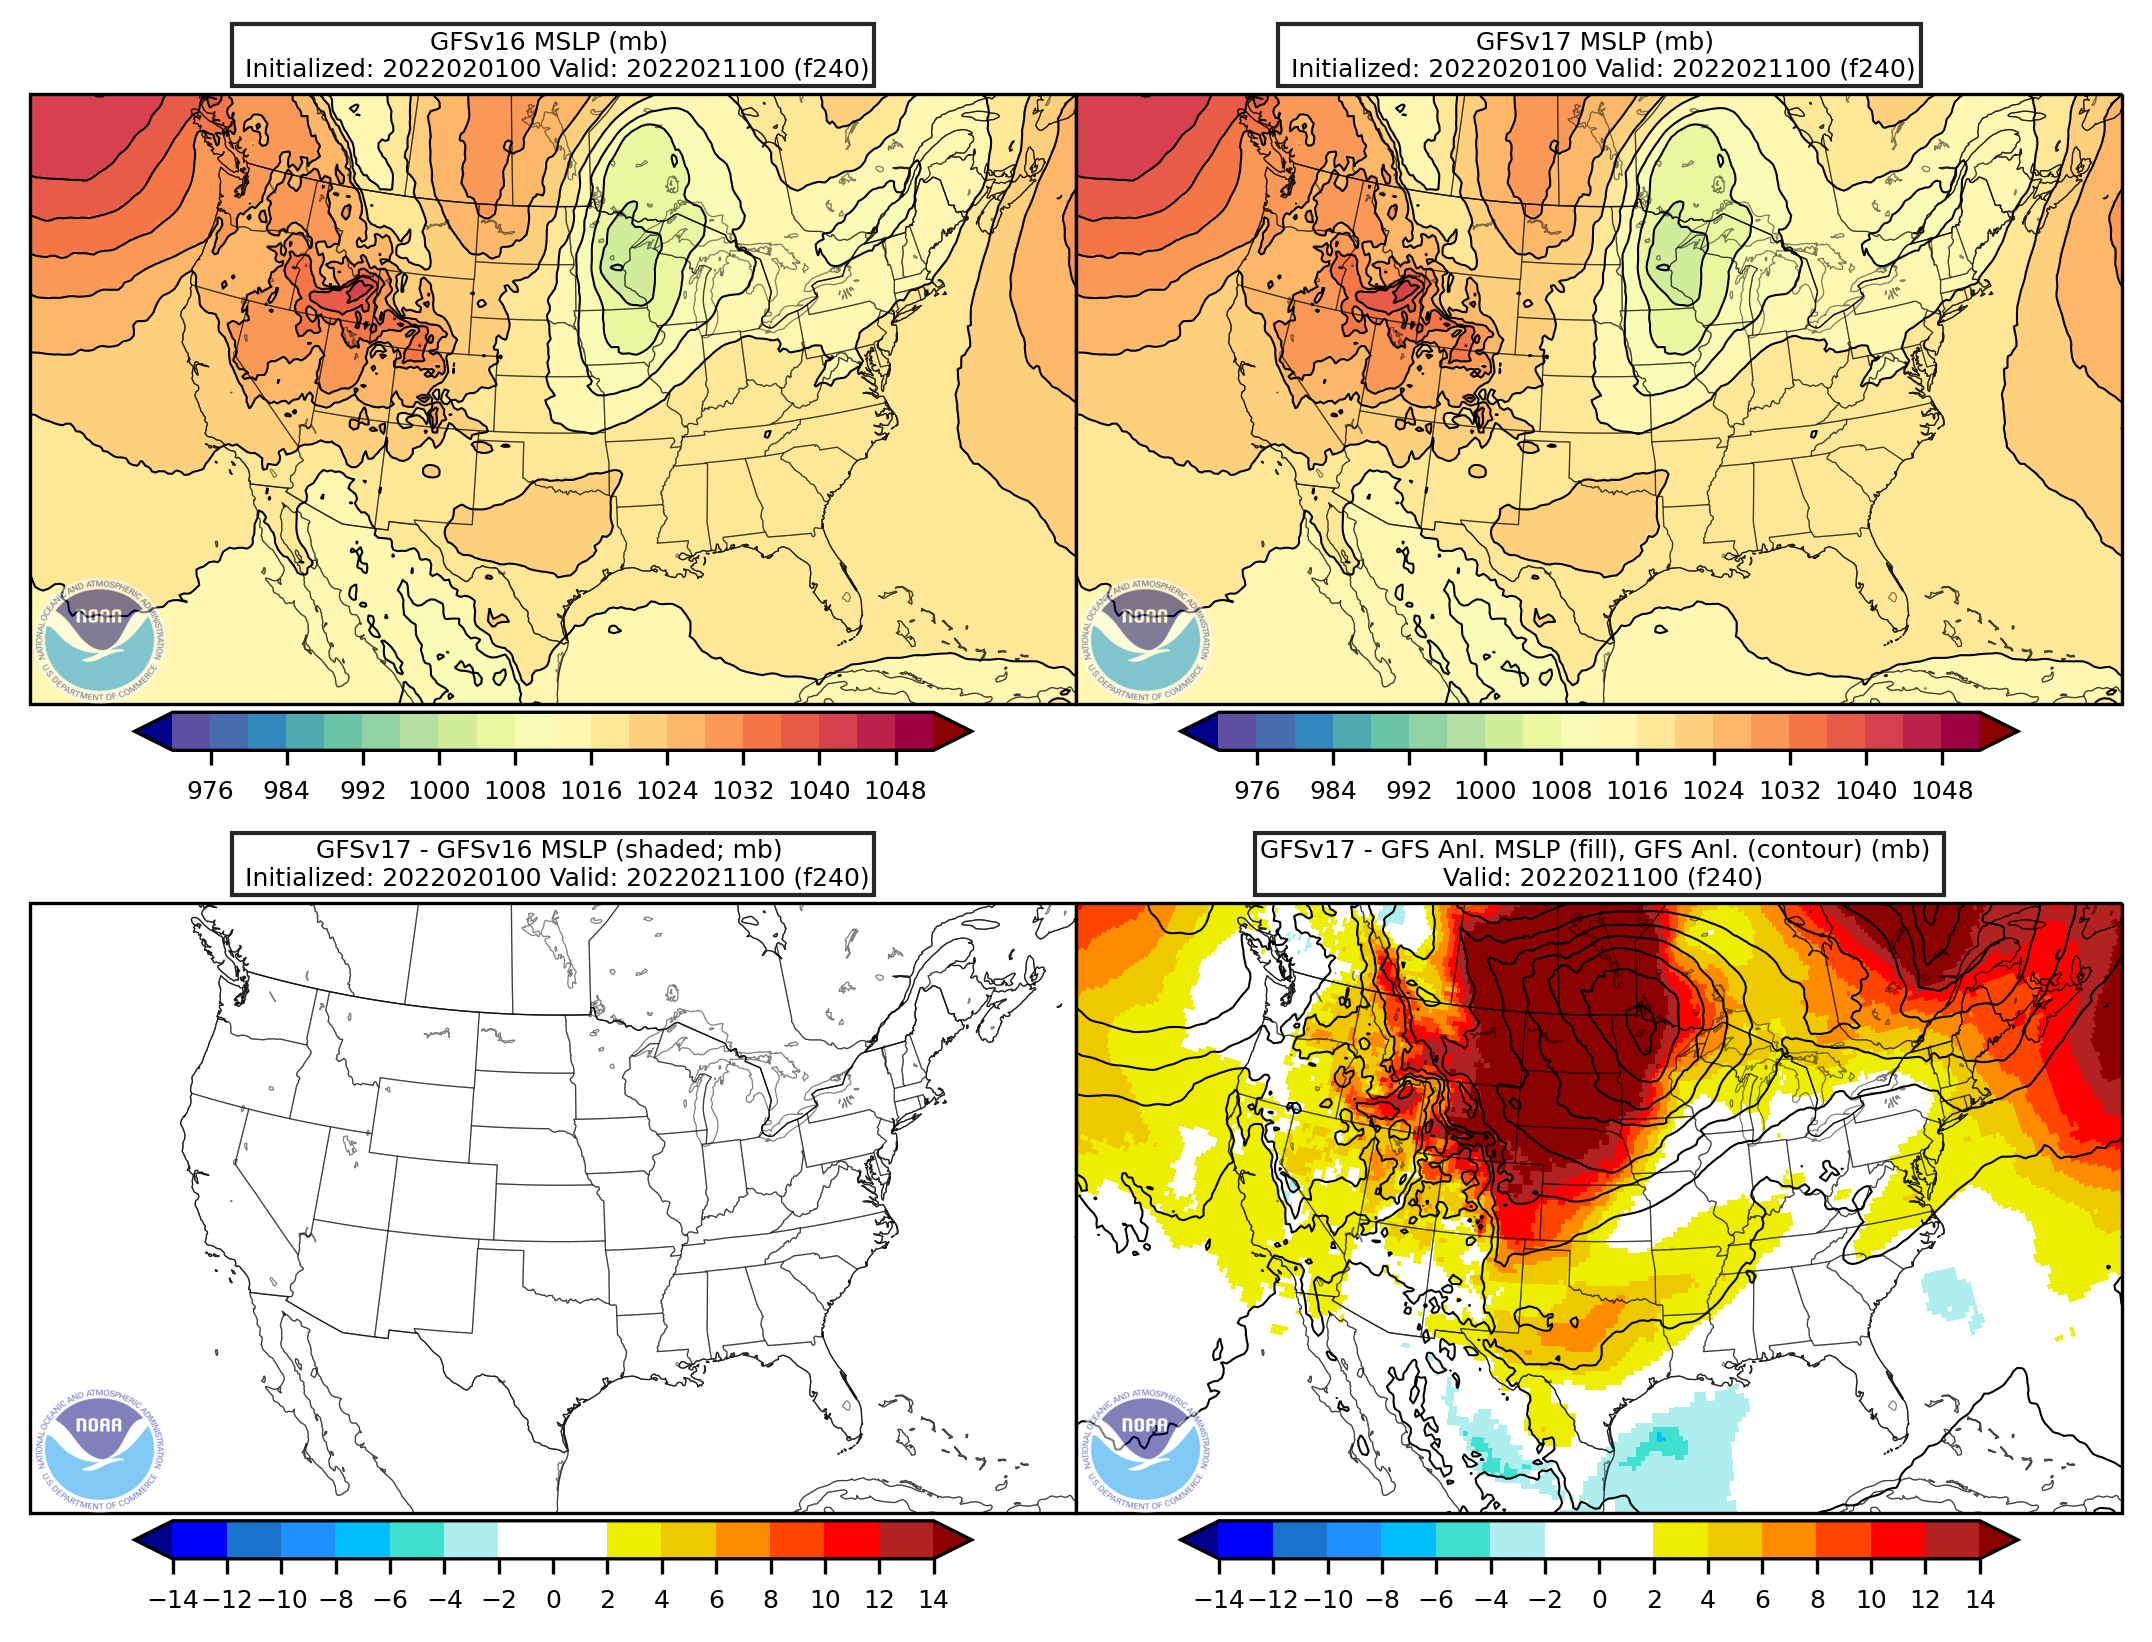
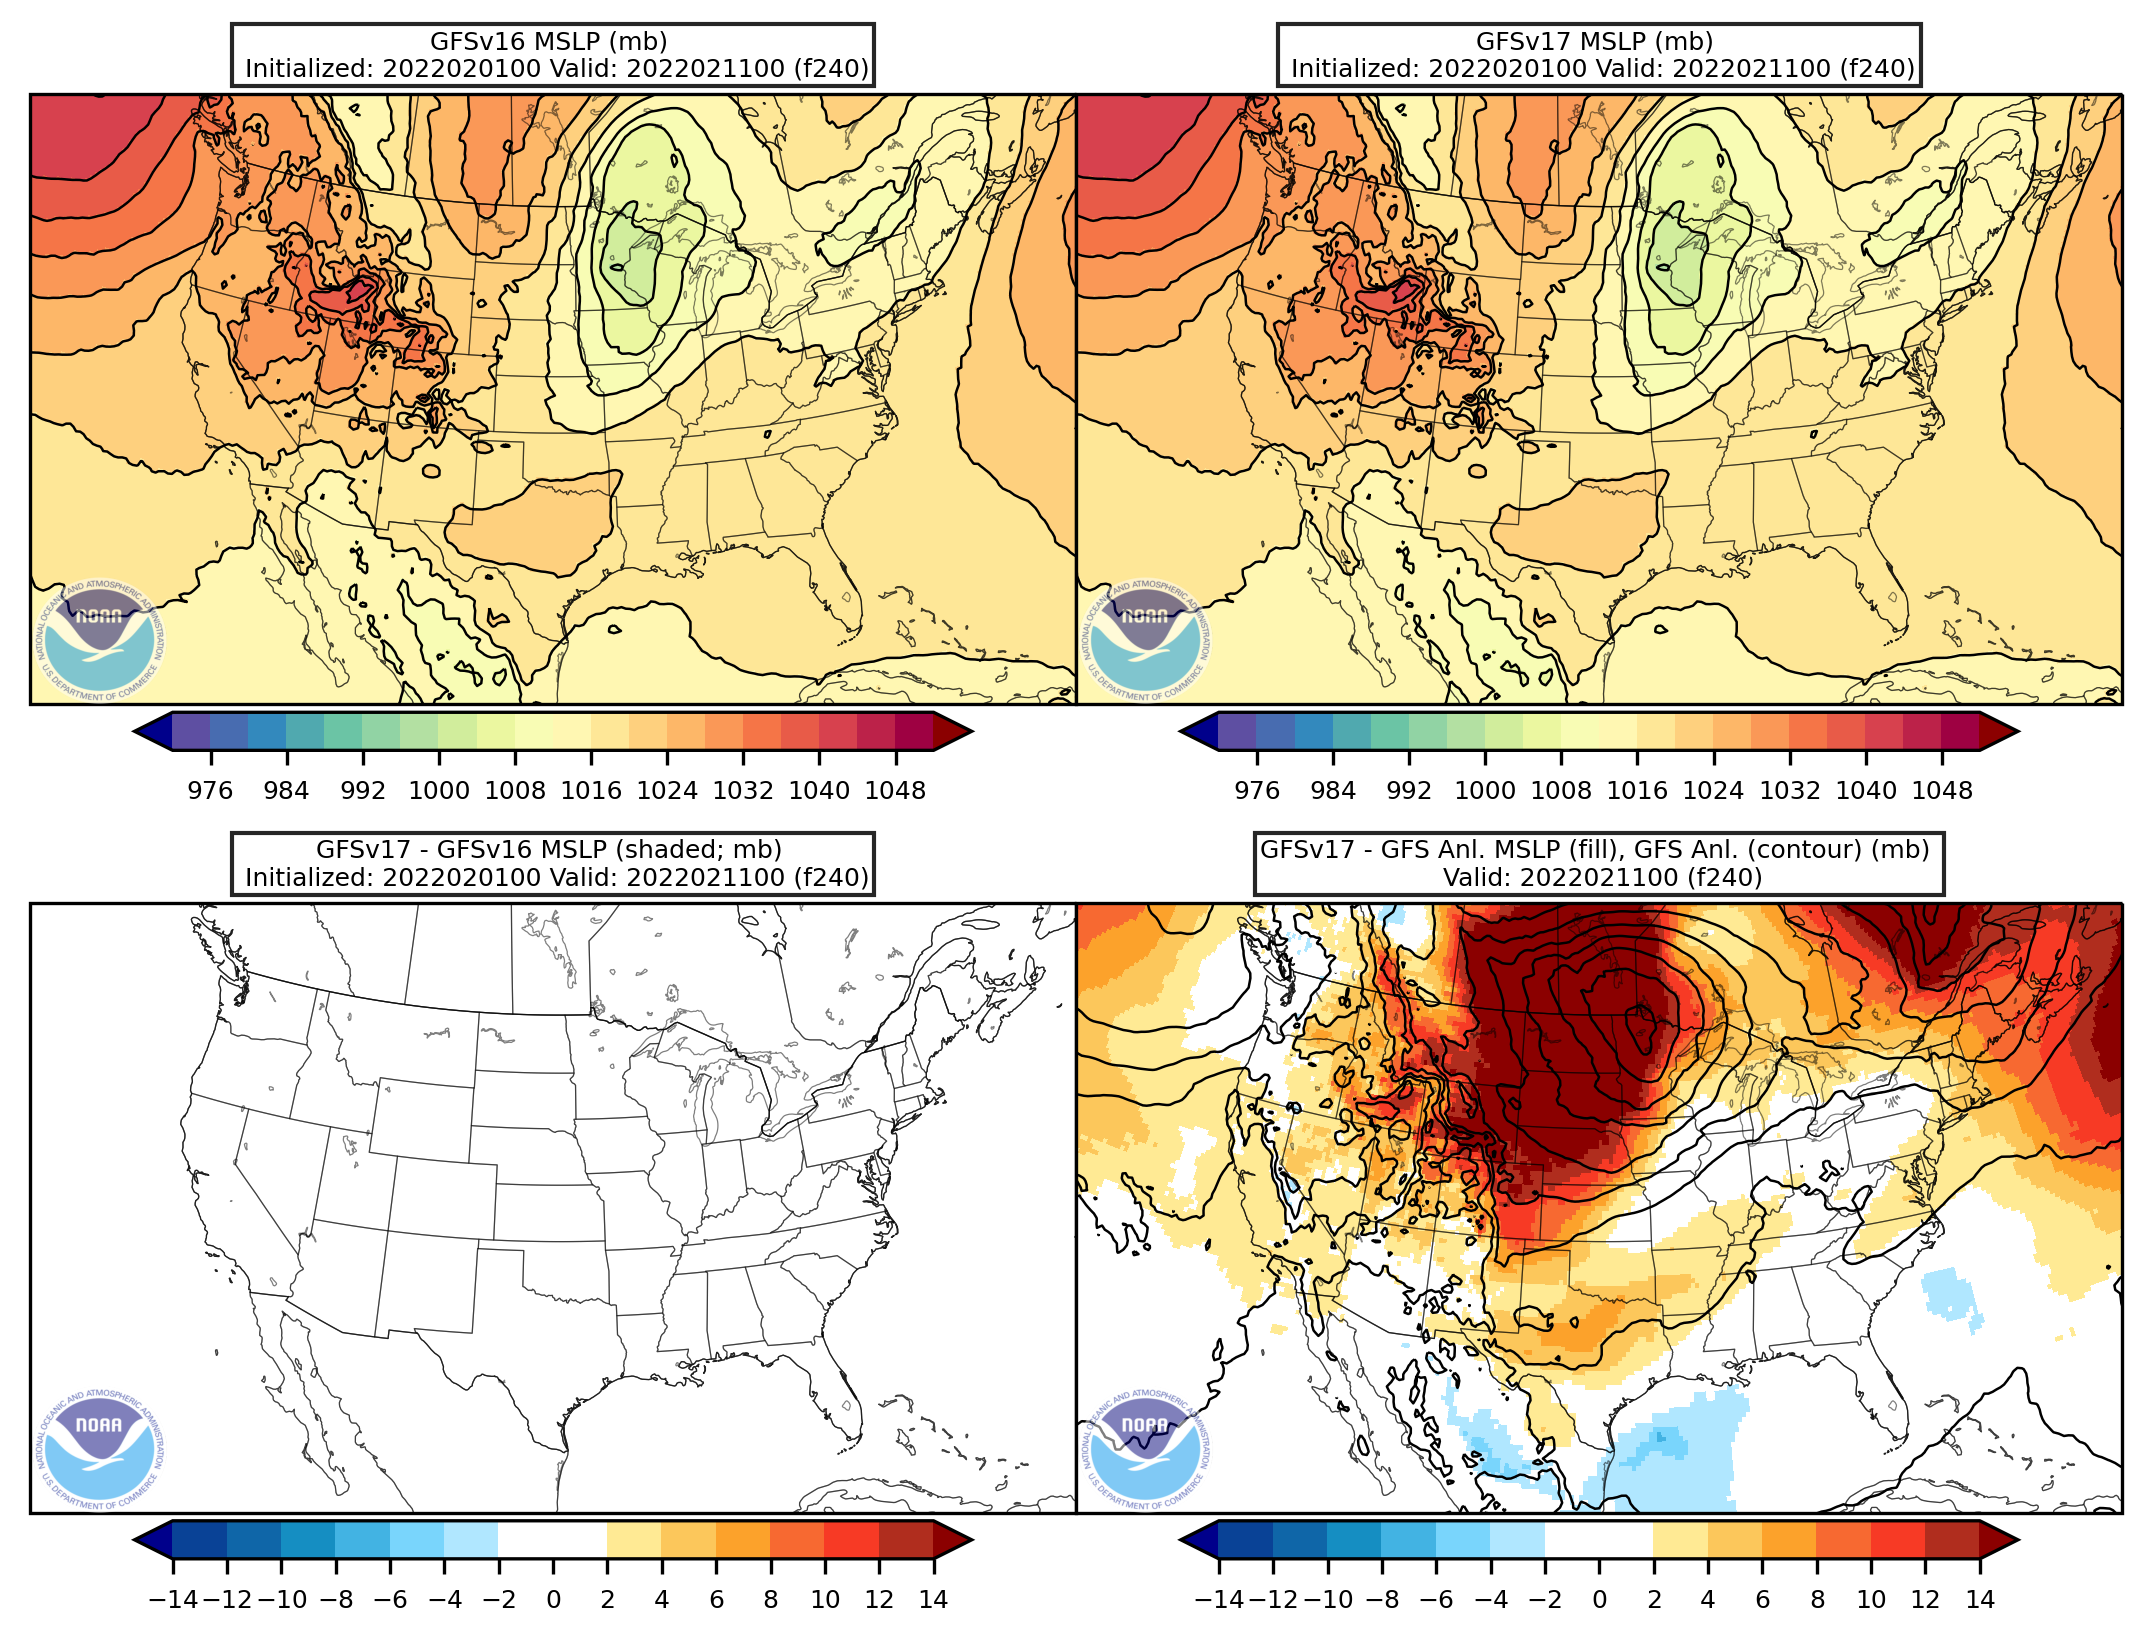
Updated SLP plotting script to optimize layout of 4-panel plots

diff --git a/plot_maps/plot_gfs_slp_4panel.py b/plot_maps/plot_gfs_slp_4panel.py
@@ -270,7 +270,7 @@ print(("%.3f seconds to read all messages") % t3a)
 
 # colors for difference plots, only need to define once
 #difcolors = ['blue','#1874CD','dodgerblue','deepskyblue','turquoise','paleturquoise','white','white','#EEEE00','#EEC900','darkorange','orangered','red','firebrick']
-difcolors = ['blue','#1874CD','dodgerblue','deepskyblue','turquoise','paleturquoise','white','white','#EEEE00','#EEC900','darkorange','orangered','red','firebrick']
+difcolors = ['#094296','#0f66a8','#158ec2','#42b3e3','#79d5fc','#b0e7ff','white','white','#ffea94','#fcc75b','#fca22b','#f76931','#f73a25','#b02d1e']
 difcolors2 = ['white']
 difcolors3 = ['blue','dodgerblue','turquoise','white','white','#EEEE00','darkorange','red']
 
@@ -343,6 +343,17 @@ def create_figure():
     ax2 = fig.add_subplot(gs[0:9,9:], projection=myproj)
     ax3 = fig.add_subplot(gs[9:,0:9], projection=myproj)
     ax4 = fig.add_subplot(gs[9:,9:], projection=myproj)
+  elif dom == 'northeast':
+    fig = plt.figure(figsize=(8,8))
+    gs = GridSpec(19,18,wspace=0.0,hspace=0.0)
+    extent = [llcrnrlon,urcrnrlon,llcrnrlat,urcrnrlat]
+    myproj=ccrs.LambertConformal(central_longitude=cen_lon, central_latitude=cen_lat,
+            false_easting=0.0,false_northing=0.0, secant_latitudes=None,
+            standard_parallels=None,globe=None)
+    ax1 = fig.add_subplot(gs[0:9,0:9], projection=myproj)
+    ax2 = fig.add_subplot(gs[0:9,9:], projection=myproj)
+    ax3 = fig.add_subplot(gs[10:,0:9], projection=myproj)
+    ax4 = fig.add_subplot(gs[10:,9:], projection=myproj)
   else:
     fig = plt.figure(figsize=(9,8))
     gs = GridSpec(19,18,wspace=0.0,hspace=0.0)
@@ -448,10 +459,13 @@ def plot_set_1():
   # Wind barb density settings
   if dom == 'conus':
     skip = 100
+    thick = 0.6
   elif dom == 'northeast':
     skip = 40
+    thick = 0.8
   else:
     skip = 30
+    thick = 0.8
   barblength = 3.5
 
   units = 'mb'
@@ -475,7 +489,7 @@ def plot_set_1():
   cs_1 = ax1.pcolormesh(lon_shift,lat_shift,slp_1,vmin=5,norm=norm,transform=transform,cmap=cm1)
   cs_1.cmap.set_under('darkblue')
   cs_1.cmap.set_over('darkred')
-  cs_1b = ax1.contour(lon_shift,lat_shift,slp_1,np.arange(940,1060,4),colors='black',linewidths=0.5,transform=transform)
+  cs_1b = ax1.contour(lon_shift,lat_shift,slp_1,np.arange(940,1060,4),colors='black',linewidths=thick,transform=transform)
   cbar1 = plt.colorbar(cs_1,ax=ax1,orientation='horizontal',pad=0.01,ticks=clevs_thin,shrink=0.8,extend='both')
 #  cbar1.set_label(units,fontsize=6)
   cbar1.ax.tick_params(labelsize=6)
@@ -485,7 +499,7 @@ def plot_set_1():
   cs_2 = ax2.pcolormesh(lon_shift,lat_shift,slp_2,vmin=5,norm=norm,transform=transform,cmap=cm2)
   cs_2.cmap.set_under('darkblue')
   cs_2.cmap.set_over('darkred')
-  cs_2b = ax2.contour(lon_shift,lat_shift,slp_2,np.arange(940,1060,4),colors='black',linewidths=0.5,transform=transform)
+  cs_2b = ax2.contour(lon_shift,lat_shift,slp_2,np.arange(940,1060,4),colors='black',linewidths=thick,transform=transform)
   cbar2 = plt.colorbar(cs_2,ax=ax2,orientation='horizontal',pad=0.01,ticks=clevs_thin,shrink=0.8,extend='both')
 #  cbar2.set_label(units,fontsize=6)
   cbar2.ax.tick_params(labelsize=6)
@@ -505,7 +519,7 @@ def plot_set_1():
   cs_4 = ax4.pcolormesh(lon_shift,lat_shift,slp_dif_anl,transform=transform,cmap=cmdif,norm=normdif)
 #  cs_4.cmap.set_under('gray')
 #  cs_4.cmap.set_over('gray')
-  cs_4b = ax4.contour(lon_shift,lat_shift,slp_4,np.arange(940,1060,4),colors='black',linewidths=0.5,transform=transform)
+  cs_4b = ax4.contour(lon_shift,lat_shift,slp_4,np.arange(940,1060,4),colors='black',linewidths=thick,transform=transform)
   cbar4 = plt.colorbar(cs_4,ax=ax4,orientation='horizontal',pad=0.01,ticks=clevsdif,shrink=0.8,extend='both')
 #  cbar4.set_label(units,fontsize=6)
   cbar4.ax.tick_params(labelsize=6)
